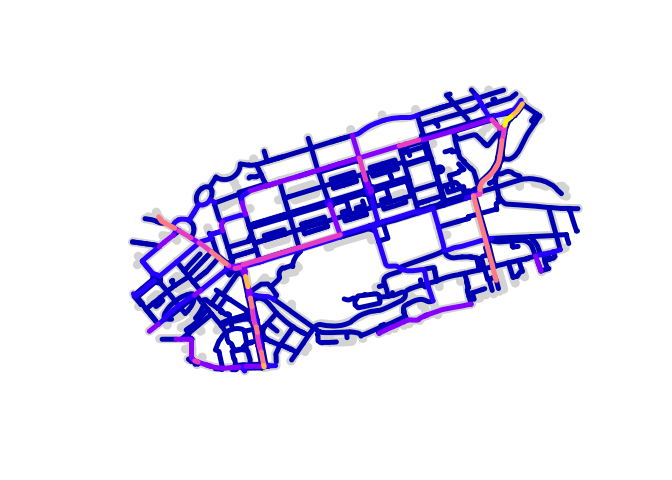
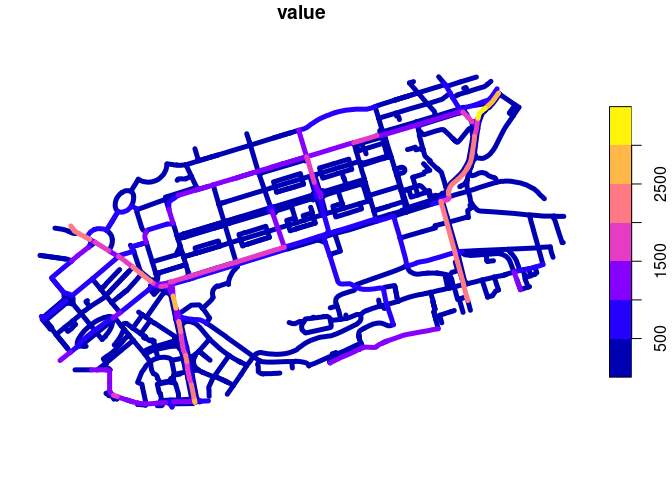
Add rsgeo benchmark

Changed region(s): [[0.0625, 0.1562, 0.875, 0.875], [0.9062, 0.2188, 1.0, 0.8125], [0.4062, 0.0, 0.5, 0.0625]]

diff --git a/demo.md b/demo.md
@@ -188,14 +188,14 @@ rnet_y
     Bounding box:  xmin: -1.533105 ymin: 53.80045 xmax: -1.526994 ymax: 53.80365
     Geodetic CRS:  WGS 84
        flow                       geometry id  quietness
-    1   128 LINESTRING (-1.530829 53.80...  1 -0.9533906
-    2   162 LINESTRING (-1.531674 53.80...  2 -1.1683903
-    3   244 LINESTRING (-1.531674 53.80...  3  0.3599070
-    5   466 LINESTRING (-1.53293 53.802...  4 -0.6237642
-    6   540 LINESTRING (-1.53293 53.802...  5 -1.3359529
-    8   784 LINESTRING (-1.529524 53.80...  6 -0.3523858
-    9   912 LINESTRING (-1.528802 53.80...  7  1.2951403
-    10 1006 LINESTRING (-1.532978 53.80...  8  0.3345037
+    1   128 LINESTRING (-1.530829 53.80...  1 -0.2539483
+    2   162 LINESTRING (-1.531674 53.80...  2  0.3856504
+    3   244 LINESTRING (-1.531674 53.80...  3  2.0103106
+    5   466 LINESTRING (-1.53293 53.802...  4  0.2697152
+    6   540 LINESTRING (-1.53293 53.802...  5 -4.2020236
+    8   784 LINESTRING (-1.529524 53.80...  6 -0.7291357
+    9   912 LINESTRING (-1.528802 53.80...  7 -0.3584004
+    10 1006 LINESTRING (-1.532978 53.80...  8  0.7269805
 
 ``` r
 rnet_yclj = geos::geos_inner_join_keys(
@@ -229,14 +229,14 @@ rnet_y
     Bounding box:  xmin: -1.533105 ymin: 53.80045 xmax: -1.526994 ymax: 53.80365
     Geodetic CRS:  WGS 84
        flow                       geometry id  quietness
-    1   128 LINESTRING (-1.530829 53.80...  1 -0.9533906
-    2   162 LINESTRING (-1.531674 53.80...  2 -1.1683903
-    3   244 LINESTRING (-1.531674 53.80...  3  0.3599070
-    5   466 LINESTRING (-1.53293 53.802...  4 -0.6237642
-    6   540 LINESTRING (-1.53293 53.802...  5 -1.3359529
-    8   784 LINESTRING (-1.529524 53.80...  6 -0.3523858
-    9   912 LINESTRING (-1.528802 53.80...  7  1.2951403
-    10 1006 LINESTRING (-1.532978 53.80...  8  0.3345037
+    1   128 LINESTRING (-1.530829 53.80...  1 -0.2539483
+    2   162 LINESTRING (-1.531674 53.80...  2  0.3856504
+    3   244 LINESTRING (-1.531674 53.80...  3  2.0103106
+    5   466 LINESTRING (-1.53293 53.802...  4  0.2697152
+    6   540 LINESTRING (-1.53293 53.802...  5 -4.2020236
+    8   784 LINESTRING (-1.529524 53.80...  6 -0.7291357
+    9   912 LINESTRING (-1.528802 53.80...  7 -0.3584004
+    10 1006 LINESTRING (-1.532978 53.80...  8  0.7269805
 
 ``` r
 rnet_ycj2 = geos::geos_inner_join_keys(
@@ -397,30 +397,30 @@ res
 ```
 
         flow id  quietness    osm_id
-    1    128  1 -0.9533906 619241249
-    1.1  128  1 -0.9533906  34359804
-    1.2  128  1 -0.9533906  25024600
-    1.3  128  1 -0.9533906  23120679
-    2    162  2 -1.1683903 169555938
-    2.1  162  2 -1.1683903 145796711
-    2.2  162  2 -1.1683903  34359804
-    2.3  162  2 -1.1683903   6072857
-    3    244  3  0.3599070   6072857
-    3.1  244  3  0.3599070 169591262
-    5    466  4 -0.6237642 145796711
-    5.1  466  4 -0.6237642 162489416
-    5.2  466  4 -0.6237642 162489422
-    5.3  466  4 -0.6237642  34423763
-    5.4  466  4 -0.6237642  34423636
-    5.5  466  4 -0.6237642  53014870
-    5.6  466  4 -0.6237642   6072857
-    6    540  5 -1.3359529  38422455
-    6.1  540  5 -1.3359529   6072857
-    6.2  540  5 -1.3359529 169591262
-    6.3  540  5 -1.3359529 169591263
-    6.4  540  5 -1.3359529 440408598
-    8    784  6 -0.3523858  23120679
-    9    912  7  1.2951403  23120679
+    1    128  1 -0.2539483 619241249
+    1.1  128  1 -0.2539483  34359804
+    1.2  128  1 -0.2539483  25024600
+    1.3  128  1 -0.2539483  23120679
+    2    162  2  0.3856504 169555938
+    2.1  162  2  0.3856504 145796711
+    2.2  162  2  0.3856504  34359804
+    2.3  162  2  0.3856504   6072857
+    3    244  3  2.0103106   6072857
+    3.1  244  3  2.0103106 169591262
+    5    466  4  0.2697152 145796711
+    5.1  466  4  0.2697152 162489416
+    5.2  466  4  0.2697152 162489422
+    5.3  466  4  0.2697152  34423763
+    5.4  466  4  0.2697152  34423636
+    5.5  466  4  0.2697152  53014870
+    5.6  466  4  0.2697152   6072857
+    6    540  5 -4.2020236  38422455
+    6.1  540  5 -4.2020236   6072857
+    6.2  540  5 -4.2020236 169591262
+    6.3  540  5 -4.2020236 169591263
+    6.4  540  5 -4.2020236 440408598
+    8    784  6 -0.7291357  23120679
+    9    912  7 -0.3584004  23120679
 
 ``` r
 res |>
@@ -451,13 +451,19 @@ rnet_y = sf::read_sf("https://github.com/ropensci/stplanr/releases/download/v1.0
 ```
 
 ``` r
+plot(rnet_y["value"], lwd = 5)
+```
+
+![](demo_files/figure-commonmark/unnamed-chunk-21-1.png)
+
+``` r
 plot(rnet_x$geometry, lwd = 9, col = "lightgrey")
 plot(rnet_y["value"], add = TRUE, lwd = 5)
 plot(rnet_x_s, add = TRUE, pch = 3)
 plot(rnet_x_e, add = TRUE, pch = 3)
 ```
 
-![](demo_files/figure-commonmark/unnamed-chunk-21-1.png)
+![](demo_files/figure-commonmark/unnamed-chunk-22-1.png)
 
 Let’s compare the `stplanr` implementation with the new implementation:
 
@@ -474,13 +480,13 @@ rnet_merged = rnet_merge(rnet_x, rnet_y["value"], dist = 9, segment_length = 20,
     Joining with `by = join_by(identifier)`
 
        user  system elapsed 
-      0.137   0.000   0.135 
+      0.125   0.004   0.127 
 
 ``` r
 plot(rnet_merged["value"], lwd = 3)
 ```
 
-![](demo_files/figure-commonmark/unnamed-chunk-22-1.png)
+![](demo_files/figure-commonmark/unnamed-chunk-23-1.png)
 
 ``` r
 devtools::load_all()
@@ -506,7 +512,7 @@ rnet_joined = rnet_x |>
     Joining with `by = join_by(identifier)`
 
        user  system elapsed 
-      3.044   0.008   3.057 
+      2.679   0.005   2.684 
 
 ``` r
 summary(rnet_joined)
@@ -534,4 +540,60 @@ summary(rnet_joined)
 plot(rnet_joined["value"], lwd = 3)
 ```
 
-![](demo_files/figure-commonmark/unnamed-chunk-23-1.png)
+![](demo_files/figure-commonmark/unnamed-chunk-24-1.png)
+
+# With rsgeo
+
+``` r
+remotes::install_github("josiahparry/rsgeo", ref = "rent")
+```
+
+    Using github PAT from envvar GITHUB_PAT
+
+    Skipping install of 'rsgeo' from a github remote, the SHA1 (3f132b44) has not changed since last install.
+      Use `force = TRUE` to force installation
+
+``` r
+rnet_x = sf::read_sf("https://github.com/ropensci/stplanr/releases/download/v1.0.2/rnet_x_ed.geojson") |> 
+  sf::st_transform(27700)
+rnet_y = sf::read_sf("https://github.com/ropensci/stplanr/releases/download/v1.0.2/rnet_y_ed.geojson") |> 
+  sf::st_transform(27700)
+
+plot(rnet_x)
+```
+
+![](demo_files/figure-commonmark/unnamed-chunk-25-1.png)
+
+``` r
+library(rsgeo)
+
+
+x <- as_rsgeo(rnet_x)
+y <- as_rsgeo(rnet_y)
+
+
+# 3rd arg is distance 4th is slope tolerance
+# distance is in units of the input data
+system.time({
+res <- rsgeo:::rnet_merge(x, y, 20, 0.2)  
+
+excluded <- setdiff(1:length(x), res$from)
+
+from <- rnet_x[res$from,]
+to <- lapply(res$to, \(.i) rnet_y[.i,])
+to_mean_value <- sapply(res$to, \(.i) mean(rnet_y$value[.i]))
+
+rnet_matched_rsgeo = dplyr::bind_cols(from, value = to_mean_value)
+})
+```
+
+       user  system elapsed 
+      0.122   0.000   0.122 
+
+``` r
+plot(rnet_matched_rsgeo["value"], lwd = 3)
+```
+
+![](demo_files/figure-commonmark/unnamed-chunk-25-2.png)
+
+Let’s try matching the data:
